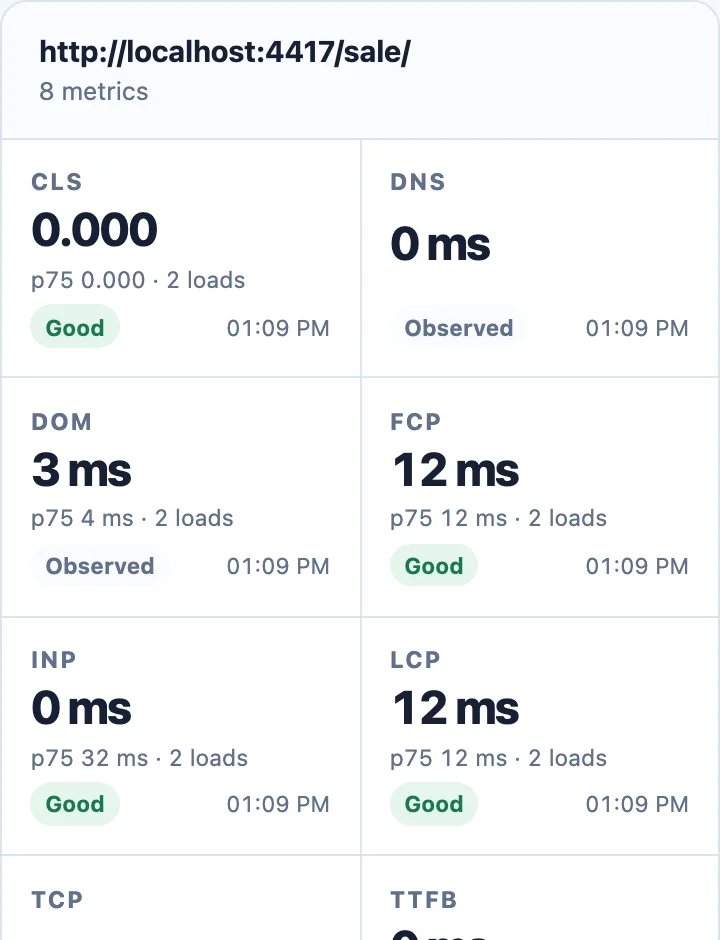
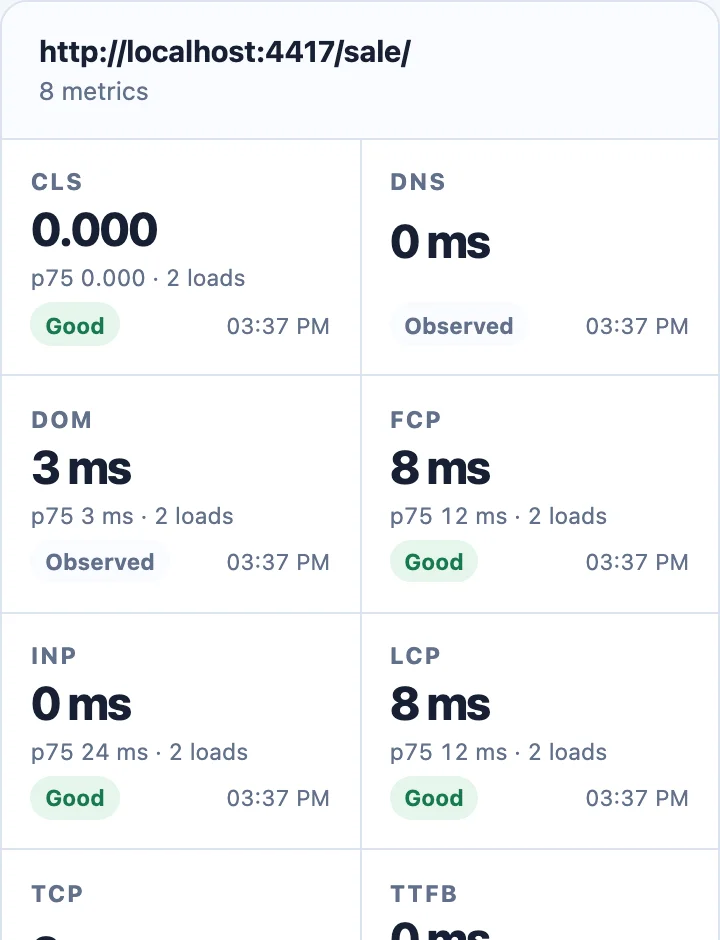
Dashboard: no grey block beside an incomplete row of metric tiles

diff --git a/CHANGELOG.md b/CHANGELOG.md
@@ -12,6 +12,10 @@ and this project adheres to [Semantic Versioning](https://semver.org/spec/v2.0.0
 - **Pages:** the project site uses the current shared theme (0.17.0).
 - **Pages:** the start page links the live demo from the hero, shows screenshots of 0.5.0 and states what is tested (Astro 7), how duplicates are dropped and what the dashboard records.
 
+### Fixed
+
+- **Dashboard:** an incomplete last row of metric tiles no longer leaves a grey block beside it.
+
 
 ## [0.5.0] - 2026-11-23
 
